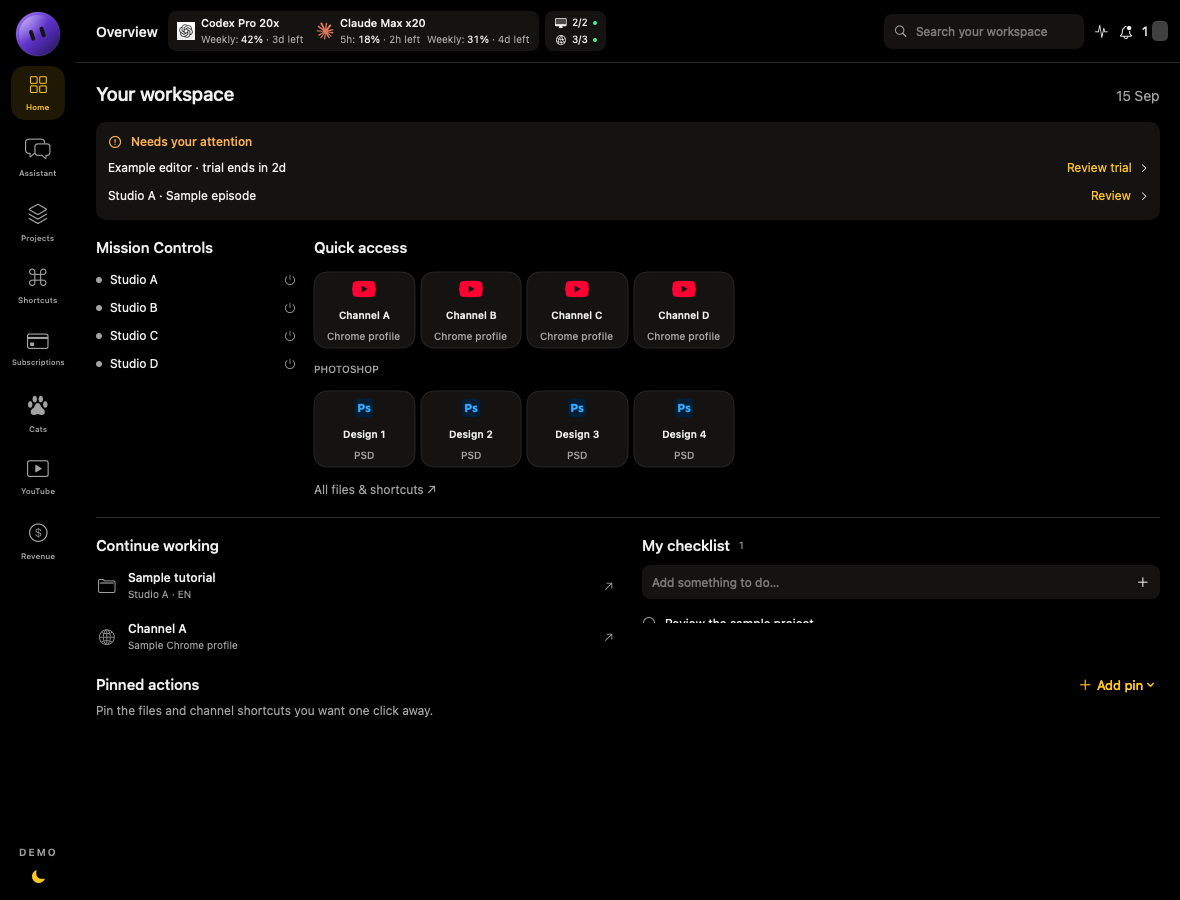
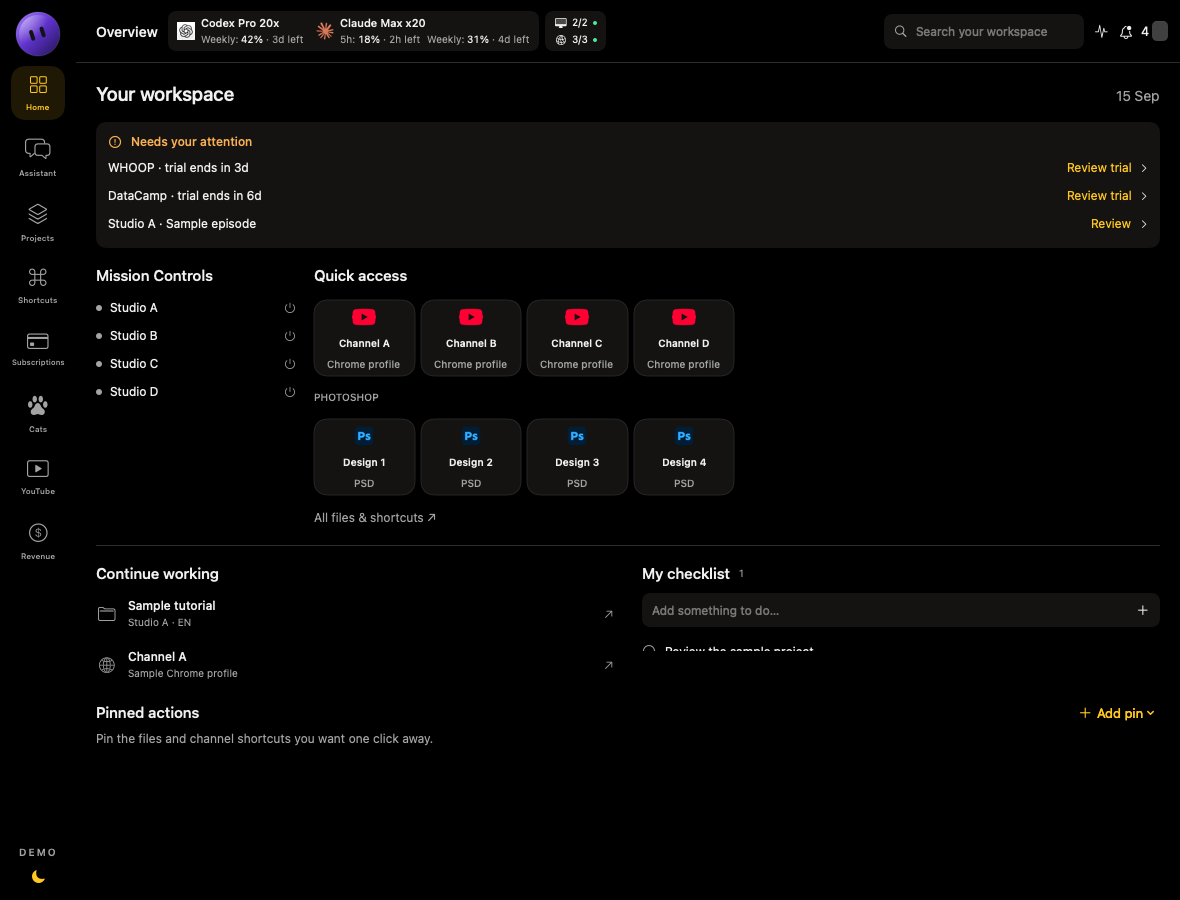
Use sanitized subscription service names

diff --git a/Sources/JarvisDemo/SampleData.swift b/Sources/JarvisDemo/SampleData.swift
@@ -1,25 +1,67 @@
 import Foundation
 
-// Fictional records, created independently of personal exports.
+// Approved provider/plan labels; all other record fields are fictional samples.
 enum SampleData {
     static let now = Date()
     static func day(_ offset: Int) -> Date { Calendar.current.date(byAdding: .day, value: offset, to: Calendar.current.startOfDay(for: now))! }
     static let rates = [("EUR", 0.9), ("GBP", 0.8), ("MAD", 10.0)].map { OrbitFXRate(date: ytDay(now), base: "USD", quote: $0.0, rate: $0.1) }
+    static let subscriptionNames = [
+        "Claude Max 20x",
+        "ElevenLabs Creator",
+        "Chess.com Platinum",
+        "CapCut Pro",
+        "DataCamp",
+        "X Premium+",
+        "Amazon Prime",
+        "Zwift",
+        "Kindle Unlimited",
+        "Google AI Pro 5 TB",
+        "PetroSky Mini",
+        "PetroSky Premium",
+        "IPRoyal proxy",
+        "Bevel Pro",
+        "Orange mobile",
+        "Adobe Creative Cloud Pro",
+        "iCloud+ 200 GB",
+        "Tapo Care — 1 camera",
+        "Apple Music Individual",
+        "YouTube Premium Family",
+        "Hiface",
+        "Opal Pro",
+        "Shopify",
+        "ChatGPT Pro 20x",
+        "Spotify",
+        "Nexlev Lite",
+        "Canva Pro",
+        "Kimi",
+        "WHOOP",
+        "CleanMyMac",
+        "SwimSuccess",
+        "Muzz Gold",
+        "NodeMaven ISP proxies",
+        "Claude Pro",
+        "GoDaddy",
+        "Personality.co",
+        "Surfshark",
+        "Skool",
+        "YouTube membership",
+        "Netflix",
+        "CFG Bank — Forfait Premier",
+        "Nindohost",
+        "Nindomail Professional",
+        "Nexlev Pro",
+        "HypeProxy — Mobile Proxy",
+    ]
     static var subscriptions: [OrbitSubscription] {
-        [("ChatGPT", 25.0, "USD", "Monthly", "Active", 8),
-         ("Claude", 30.0, "USD", "Monthly", "Active", 12),
-         ("Adobe", 18.0, "EUR", "Monthly", "Active", 18),
-         ("Example cloud", 120.0, "USD", "Yearly", "Active", 24),
-         ("Example editor", 15.0, "USD", "Monthly", "Trial", 2),
-         ("Example storage", 8.0, "USD", "Monthly", "Ending", 5),
-         ("Example service", 0.0, "USD", "Unknown", "Needs review", 0),
-         ("Example archive", 12.0, "USD", "Monthly", "Archived", -60)].enumerated().map { index, r in
-            var s = OrbitSubscription(name: r.0, amount: r.1, currency: r.2, cycle: r.3, date: day(r.5), status: r.4)
-            s.id = UUID(uuidString: String(format: "00000000-0000-4000-8000-%012d", index + 1))!
-            s.notes = "Fictional sample record. Amounts do not represent provider pricing or a personal account."
-            s.priceKnown = r.4 != "Needs review"; s.dateKnown = r.4 != "Needs review"
-            s.dateBasis = "Confirmed"; s.priceBasis = "Confirmed"
-            return s
+        subscriptionNames.enumerated().map { index, name in
+            let status = ["Active", "Active", "Active", "Active", "Trial", "Ending", "Needs review", "Archived"][index % 8]
+            let amount = Double(10 + (index % 5) * 5)
+            var item = OrbitSubscription(name: name, amount: amount, date: day(2 + index % 27), status: status)
+            item.id = UUID(uuidString: String(format: "00000000-0000-4000-8000-%012d", index + 1))!
+            item.notes = "Provider and plan name retained. Amount, dates, billing cycle and status are fictional demonstration values."
+            item.priceKnown = status != "Needs review"; item.dateKnown = status != "Needs review"
+            item.dateBasis = "Confirmed"; item.priceBasis = "Confirmed"
+            return item
         }
     }
     static var cats: [CatExpense] {

diff --git a/Sources/JarvisDemo/DemoChecks.swift b/Sources/JarvisDemo/DemoChecks.swift
@@ -1,6 +1,23 @@
 import Foundation
 
 @MainActor enum DemoChecks {
+    private static var billingExamples: [OrbitSubscription] {
+        [("ChatGPT", 25.0, "USD", "Monthly", "Active", 8),
+         ("Claude", 30.0, "USD", "Monthly", "Active", 12),
+         ("Adobe", 18.0, "EUR", "Monthly", "Active", 18),
+         ("Example cloud", 120.0, "USD", "Yearly", "Active", 24),
+         ("Example editor", 15.0, "USD", "Monthly", "Trial", 2),
+         ("Example storage", 8.0, "USD", "Monthly", "Ending", 5),
+         ("Example service", 0.0, "USD", "Unknown", "Needs review", 0),
+         ("Example archive", 12.0, "USD", "Monthly", "Archived", -60)].enumerated().map { index, r in
+            var s = OrbitSubscription(name: r.0, amount: r.1, currency: r.2, cycle: r.3, date: SampleData.day(r.5), status: r.4)
+            s.id = UUID(uuidString: String(format: "00000000-0000-4000-8000-%012d", index + 1))!
+            s.notes = "Fictional sample record. Amounts do not represent provider pricing or a personal account."
+            s.priceKnown = r.4 != "Needs review"; s.dateKnown = r.4 != "Needs review"
+            s.dateBasis = "Confirmed"; s.priceBasis = "Confirmed"
+            return s
+        }
+    }
     static func run() throws {
         func require(_ condition: @autoclosure () -> Bool, _ message: String) throws {
             if !condition() { throw LaunchpadError(message: message) }
@@ -11,7 +28,7 @@ import Foundation
         _ = try OrbitValidatedRates(encoder.encode(SampleData.rates))
         encoder.dateEncodingStrategy = .iso8601
         _ = try YouTubeSnapshot.decode(encoder.encode(SampleData.youtube))
-        let total = OrbitUsdTotal(SampleData.subscriptions, rates: SampleData.rates)
+        let total = OrbitUsdTotal(billingExamples, rates: SampleData.rates)
         try require(total.complete && abs(total.monthly - 85) < 0.00001, "Trial, ending and review records must not inflate the monthly total.")
         var annual = OrbitSubscription(name: "Annual", amount: 120, cycle: "Yearly")
         try require(annual.monthly == 10, "Annual billing must normalize to monthly.")
@@ -20,7 +37,7 @@ import Foundation
         try require(!incomplete.complete && incomplete.missingPrices == 1 && incomplete.monthly == 0, "Unknown prices must be excluded and disclosed.")
         annual.priceKnown = true; annual.currency = "JPY"
         try require(OrbitUsdTotal([annual], rates: SampleData.rates).missingRates == 1, "Missing FX must not be treated as zero cost.")
-        let store = SubscriptionStore()
+        let store = SubscriptionStore(items: billingExamples)
         let initialCount = store.items.count
         var edited = store.items[0]; edited.amount += 10
         try require(store.save(edited), "Editing a sample subscription should succeed.")
@@ -32,7 +49,7 @@ import Foundation
         let channel = SampleData.youtube.channels[0]
         try require(channel.week(through: channel.endDate) != nil, "Matching daily windows must produce a comparison.")
         try require(abs((channel.financials?.last7?.rpm ?? 0) - channel.financials!.last7!.amount / channel.financials!.last7!.engagedViews! * 1000) < 0.000001, "RPM must use engaged views.")
-        let secondStore = SubscriptionStore()
+        let secondStore = SubscriptionStore(items: billingExamples)
         try require(secondStore.items[0].amount == 25, "Demo stores must start from samples, not another session's edits.")
         print("PASS: fixture validation, subscription totals and edits, missing data, cat archiving, analytics windows, RPM and session isolation.")
     }

diff --git a/Sources/JarvisDemo/OrbitComponents.swift b/Sources/JarvisDemo/OrbitComponents.swift
@@ -220,7 +220,49 @@ struct OrbitPrimaryButton: ButtonStyle {
     }
 }
 // Local provider artwork; no network requests or subscription data leave the app.
-let OrbitBrandNames: [(String,String)] = [("chatgpt","openai"),("claude","anthropic"),("youtube","youtube"),("adobe","photoshop")]
+let OrbitBrandNames: [(String,String)] = [
+    ("chatgpt","openai"),
+    ("claude","anthropic"),
+    ("youtube","youtube"),
+    ("adobe","adobe"),
+    ("amazon","amazon"),
+    ("apple music","applemusic"),
+    ("bevel","bevel"),
+    ("canva","canva"),
+    ("capcut","capcut"),
+    ("cleanmymac","cleanmymac"),
+    ("datacamp","datacamp"),
+    ("elevenlabs","elevenlabs"),
+    ("godaddy","godaddy"),
+    ("hiface","hiface"),
+    ("hypeproxy","hypeproxy"),
+    ("icloud","icloud"),
+    ("iproyal","iproyal"),
+    ("kimi","kimi"),
+    ("kindle","kindle"),
+    ("muzz","muzz"),
+    ("netflix","netflix"),
+    ("nexlev","nexlev"),
+    ("nindohost","nindohost"),
+    ("nindomail","nindomail"),
+    ("nodemaven","nodemaven"),
+    ("opal","opal"),
+    ("orange","orange"),
+    ("petrosky","petrosky"),
+    ("shopify","shopify"),
+    ("skool","skool"),
+    ("spotify","spotify"),
+    ("surfshark","surfshark"),
+    ("swimsuccess","swimsuccess"),
+    ("tapo","tapo"),
+    ("whoop","whoop"),
+    ("zwift","zwift"),
+    ("cfg bank","cfg"),
+    ("google ai","google"),
+    ("chess.com","chess"),
+    ("x premium","x"),
+    ("personality.co","personality"),
+]
 func OrbitBrandKey(_ name: String) -> String? {
     let normalized = name.trimmingCharacters(in:.whitespacesAndNewlines).lowercased()
     return OrbitBrandNames.first(where:{normalized.hasPrefix($0.0)})?.1

diff --git a/Sources/JarvisDemo/Subscriptions.swift b/Sources/JarvisDemo/Subscriptions.swift
@@ -6,7 +6,7 @@ import AppKit
     @Published var issue: String?
     @Published var loaded = false
     let fx = OrbitExchangeRates()
-    init() { items = SampleData.subscriptions; loaded = true }
+    init(items: [OrbitSubscription] = SampleData.subscriptions) { self.items = items; loaded = true }
     func load() async {}
     @discardableResult func save(_ item: OrbitSubscription) -> Bool {
         do {

diff --git a/scripts/check_publication.py b/scripts/check_publication.py
@@ -34,10 +34,48 @@ ALLOW = {
     'Sources/JarvisDemo/MissionControl.swift',
     'Sources/JarvisDemo/Model.swift',
     'Sources/JarvisDemo/OrbitComponents.swift',
+    'Sources/JarvisDemo/Resources/Brands/adobe.png',
+    'Sources/JarvisDemo/Resources/Brands/amazon.png',
     'Sources/JarvisDemo/Resources/Brands/anthropic.png',
+    'Sources/JarvisDemo/Resources/Brands/applemusic.png',
+    'Sources/JarvisDemo/Resources/Brands/bevel.png',
+    'Sources/JarvisDemo/Resources/Brands/canva.png',
+    'Sources/JarvisDemo/Resources/Brands/capcut.png',
+    'Sources/JarvisDemo/Resources/Brands/cfg.png',
+    'Sources/JarvisDemo/Resources/Brands/chess.png',
+    'Sources/JarvisDemo/Resources/Brands/cleanmymac.png',
+    'Sources/JarvisDemo/Resources/Brands/datacamp.png',
+    'Sources/JarvisDemo/Resources/Brands/elevenlabs.png',
+    'Sources/JarvisDemo/Resources/Brands/godaddy.png',
+    'Sources/JarvisDemo/Resources/Brands/google.png',
+    'Sources/JarvisDemo/Resources/Brands/hiface.png',
+    'Sources/JarvisDemo/Resources/Brands/hypeproxy.png',
+    'Sources/JarvisDemo/Resources/Brands/icloud.png',
+    'Sources/JarvisDemo/Resources/Brands/iproyal.png',
+    'Sources/JarvisDemo/Resources/Brands/kimi.png',
+    'Sources/JarvisDemo/Resources/Brands/kindle.png',
+    'Sources/JarvisDemo/Resources/Brands/muzz.png',
+    'Sources/JarvisDemo/Resources/Brands/netflix.png',
+    'Sources/JarvisDemo/Resources/Brands/nexlev.png',
+    'Sources/JarvisDemo/Resources/Brands/nindohost.png',
+    'Sources/JarvisDemo/Resources/Brands/nindomail.png',
+    'Sources/JarvisDemo/Resources/Brands/nodemaven.png',
+    'Sources/JarvisDemo/Resources/Brands/opal.png',
     'Sources/JarvisDemo/Resources/Brands/openai.png',
+    'Sources/JarvisDemo/Resources/Brands/orange.png',
+    'Sources/JarvisDemo/Resources/Brands/personality.png',
+    'Sources/JarvisDemo/Resources/Brands/petrosky.png',
     'Sources/JarvisDemo/Resources/Brands/photoshop.png',
+    'Sources/JarvisDemo/Resources/Brands/shopify.png',
+    'Sources/JarvisDemo/Resources/Brands/skool.png',
+    'Sources/JarvisDemo/Resources/Brands/spotify.png',
+    'Sources/JarvisDemo/Resources/Brands/surfshark.png',
+    'Sources/JarvisDemo/Resources/Brands/swimsuccess.png',
+    'Sources/JarvisDemo/Resources/Brands/tapo.png',
+    'Sources/JarvisDemo/Resources/Brands/whoop.png',
+    'Sources/JarvisDemo/Resources/Brands/x.png',
     'Sources/JarvisDemo/Resources/Brands/youtube.png',
+    'Sources/JarvisDemo/Resources/Brands/zwift.png',
     'Sources/JarvisDemo/SampleData.swift',
     'Sources/JarvisDemo/ShortcutEditors.swift',
     'Sources/JarvisDemo/Storage.swift',

diff --git a/docs/ARCHITECTURE.md b/docs/ARCHITECTURE.md
@@ -12,13 +12,13 @@ The public edition keeps the original SwiftUI views and model calculations. Smal
 | FloatingWidget.swift | Original bar composition, drag handle and channel popover; standalone demo window controller |
 | TileView.swift, ShortcutEditors.swift | Original tiles, context menus, link and workspace editors |
 | JarvisView.swift, InboxPanel.swift, Diagnostics.swift | Original assistant, preferences, messages, alerts and diagnostic views |
-| SampleData.swift, DemoStores.swift | Fictional records and disconnected service adapters |
+| SampleData.swift, DemoStores.swift | Reviewed provider labels, fictional record fields and disconnected service adapters |
 | Model.swift, Storage.swift, DarijaLatin.swift | Extracted shortcut model, recovery helpers and transliteration |
 | DemoApp.swift | App entry, environment injection and offscreen rendering |
 
 ## Data and actions
 
-The app starts from source-defined samples, never personal exports. It does not discover browser profiles, read the personal app's preferences, access credentials, scan project folders, launch commands or poll providers. Editing records and preferences changes session memory.
+The app starts from source-defined samples and an explicitly reviewed provider/plan allowlist. No personal record export is bundled. It does not discover browser profiles, read the personal app's preferences, access credentials, scan project folders, launch commands or poll providers. Editing records and preferences changes session memory.
 
 Explicit file selection can read the files chosen by the person running the demo. Cat import/export remains functional. Selected shortcut artwork is copied into a unique temporary demo directory. The standalone storage helpers also accept caller-supplied paths and are exercised independently by the recovery tests.
 

diff --git a/README.md b/README.md
@@ -4,7 +4,7 @@
 
 Jarvis brings projects, shortcuts, subscriptions, cat expenses, YouTube analytics and account-usage indicators into one workspace. A floating widget keeps quotas and channel shortcuts within reach while using other apps.
 
-This public edition uses the application's original views with **fictional records**. Channel names, projects, financial figures, machine details and account readings are samples. Private integrations are disconnected. Sample subscription amounts are not provider prices.
+This public edition uses the application's original views. Subscription **provider and plan names** come from my actual list, with account labels, stores, domains and other identifying additions removed. Subscription amounts, dates, cycles and statuses are fictional. Channel names, projects, financial figures, machine details and account readings are also samples. Private integrations are disconnected; sample subscription amounts are not provider prices.
 
 ## Workspace
 
@@ -24,7 +24,7 @@ The widget uses the same quota strip and detail views as the dashboard. Its read
 
 ## Subscriptions
 
-![Orbit subscription interface with fictional records](docs/images/subscriptions.png)
+![Orbit subscription interface with sanitized provider names and sample billing data](docs/images/subscriptions.png)
 
 The original Orbit interface includes monthly and yearly USD/MAD totals, billing-cycle conversion, a renewal timeline, trials, ending plans, records needing review, search, sorting and archiving. The subscription editor retains price and date certainty, reminder settings, notes and source fields. Unknown costs and missing exchange rates are disclosed rather than counted as zero.
 

diff --git a/SECURITY.md b/SECURITY.md
@@ -1,6 +1,6 @@
 # Security
 
-The demo starts from fictional source-defined records. It does not access account credentials, browser sessions, personal application storage, machine probes, remote shells or project directories. No live integration adapter is included.
+The demo uses an explicitly reviewed list of real provider and plan names. Account labels, store names, personal domains, people and channel/community names are removed; duplicate account entries are combined. All other record fields are fictional, including amounts, dates, billing cycles and statuses. It does not access account credentials, browser sessions, personal application storage, machine probes, remote shells or project directories. No live integration adapter is included.
 
 Record edits and preferences remain in session memory. Explicit import/export and artwork selection use native file pickers; these actions read or write only when requested. Artwork is stored in a unique temporary demo directory. Public provider links open when clicked. Synthetic channel and video links use example.com; thumbnails do not make network requests.
 

diff --git a/docs/SOURCE_FIDELITY.md b/docs/SOURCE_FIDELITY.md
@@ -17,7 +17,7 @@ This edition reuses the personal application's views. Demo adaptation happens pr
 
 | Boundary | Public-edition change |
 | --- | --- |
-| Personal identity and records | Fictional names, projects, paths, financial figures and readings; generic workspace label |
+| Personal identity and records | Approved provider and plan labels with identifying additions removed; fictional record fields, projects, paths, figures and readings; generic workspace label |
 | Account, machine and project readers | Replaced with fixture stores; no discovery, credentials, CLI calls, shell commands or probes |
 | Persistence | Session memory; isolated temporary artwork storage; original explicit file import/export retained |
 | Saved preferences | In-memory state instead of reading personal defaults |

diff --git a/docs/BRANDS.md b/docs/BRANDS.md
@@ -8,3 +8,7 @@ The interface identifies services using their recognizable marks. These static i
 - Adobe: Photoshop application icon, from the installed application's standard icon resource.
 
 The Claude and YouTube assets originate from the Simple Icons collection. Brand names and marks belong to their respective owners. Their appearance identifies services and does not imply endorsement or affiliation.
+
+## Subscription providers
+
+The subscription list also uses the personal app’s existing standalone provider artwork. Only reviewed brand PNGs are bundled; personal artwork and the private source manifest are excluded. PNG metadata is stripped while the image data is preserved. Provider names identify services and do not imply endorsement.

diff --git a/docs/PUBLICATION.md b/docs/PUBLICATION.md
@@ -6,6 +6,7 @@ This repository was assembled as a separate public edition from explicitly selec
 
 - Reviewed model, storage and transliteration components.
 - The original SwiftUI views with fictional fixtures and disconnected integration adapters.
+- Explicitly approved provider and plan names, stripped of account, store, domain, person and channel/community identifiers.
 - Behavioral tests and documentation.
 - PNG images rendered directly from the public demo views.
 
